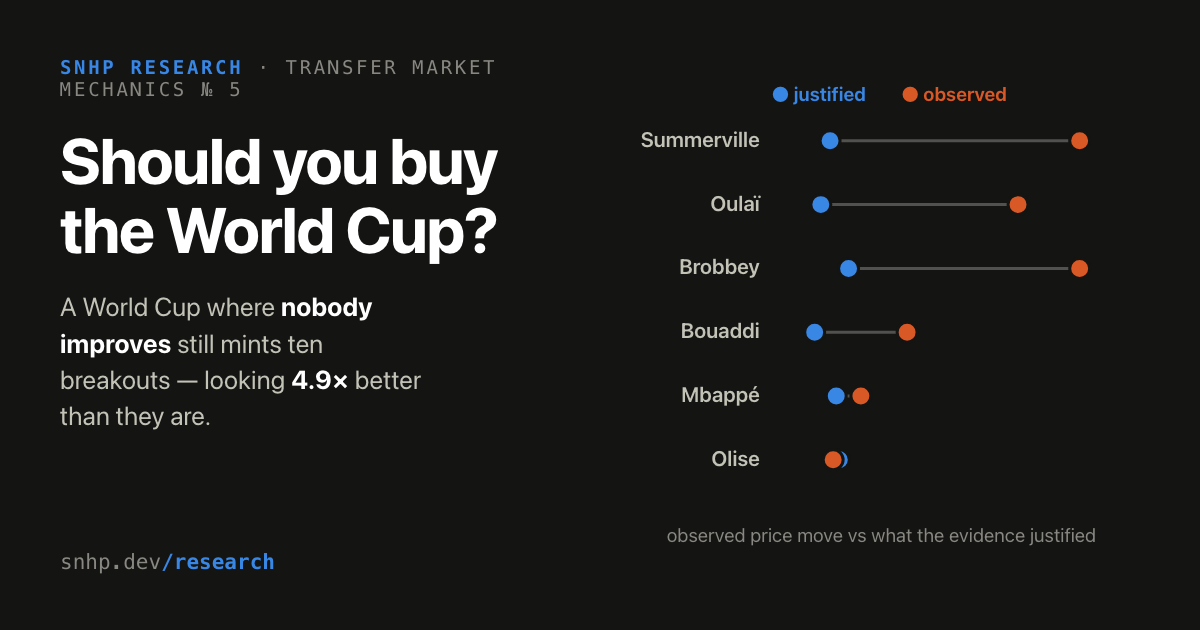
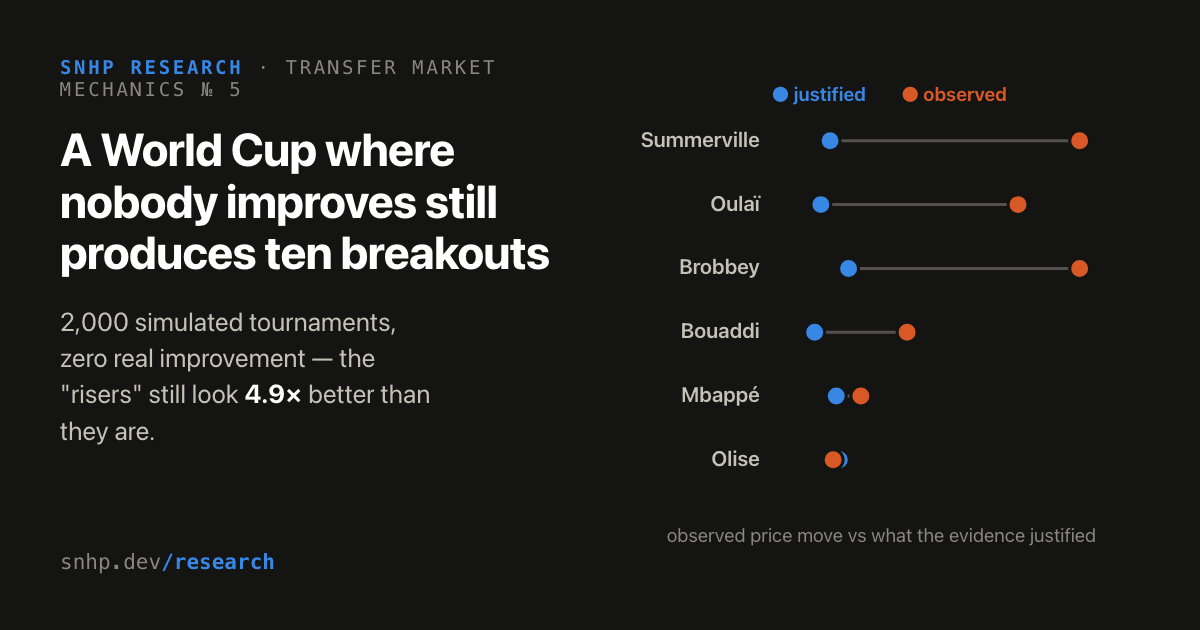
research: editor pass on the WC premium piece — make it a story
Applied a full features-editor edit: Elijah Just cold open (£2.5m in
May, "at least £10m" now) replaces the tracker price-dump; the null
tournament lands 200 words in; the James Rodriguez Maracana volley gets
its scene; the try-before-you-buy beat (Bayern/United both declined
after trial periods) stands alone; caveats halved; "eleven times"
count fixed; new headline ("A World Cup where nobody improves still
produces ten breakouts") and a kicker that closes the loop: a
predictable lie is the only kind you can price. Card + index updated
to match. All numbers unchanged (fact-checked and audited previously).

Changed region(s): [[0.0308, 0.2111, 0.4625, 0.6937]]

diff --git a/gametheory/server/static/research/wc-premium.html b/gametheory/server/static/research/wc-premium.html
@@ -3,20 +3,20 @@
 <head>
 <meta charset="utf-8">
 <meta name="viewport" content="width=device-width, initial-scale=1">
-<title>Should you buy the World Cup?</title>
-<meta name="description" content="A simulated World Cup where nobody improves still mints ten breakouts. Rational vs observed price moves for 16 tracked players, and history's receipts — from James Rodríguez to Amrabat.">
+<title>A World Cup where nobody improves still produces ten breakouts</title>
+<meta name="description" content="2,000 simulated tournaments with zero real improvement still mint a breakout class. Which of this summer's price moves are real, which are television — and why the clearest buy is a player whose price went down.">
 <link rel="canonical" href="https://snhp.dev/research/wc-premium">
 <meta property="og:type" content="article">
 <meta property="og:site_name" content="SNHP Research">
-<meta property="og:title" content="Should you buy the World Cup?">
-<meta property="og:description" content="A simulated World Cup where nobody improves still mints ten breakouts. Rational vs observed price moves for 16 tracked players, and history's receipts — from James Rodríguez to Amrabat.">
+<meta property="og:title" content="A World Cup where nobody improves still produces ten breakouts">
+<meta property="og:description" content="2,000 simulated tournaments with zero real improvement still mint a breakout class. Which of this summer's price moves are real, which are television — and why the clearest buy is a player whose price went down.">
 <meta property="og:url" content="https://snhp.dev/research/wc-premium">
 <meta property="og:image" content="https://snhp.dev/static/research/img/premium-card.png">
 <meta property="og:image:width" content="1200">
 <meta property="og:image:height" content="630">
 <meta name="twitter:card" content="summary_large_image">
-<meta name="twitter:title" content="Should you buy the World Cup?">
-<meta name="twitter:description" content="A simulated World Cup where nobody improves still mints ten breakouts. Rational vs observed price moves for 16 tracked players, and history's receipts — from James Rodríguez to Amrabat.">
+<meta name="twitter:title" content="A World Cup where nobody improves still produces ten breakouts">
+<meta name="twitter:description" content="2,000 simulated tournaments with zero real improvement still mint a breakout class. Which of this summer's price moves are real, which are television — and why the clearest buy is a player whose price went down.">
 <meta name="twitter:image" content="https://snhp.dev/static/research/img/premium-card.png">
 </head>
 <body>
@@ -126,9 +126,9 @@
 <div class="wrap">
 <header>
   <div class="eyebrow">Transfer market mechanics · No. 5</div>
-  <h1>Should you buy the World Cup?</h1>
-  <p class="standfirst">Value trackers say this tournament has minted hundreds of millions in new transfer value — £25m for five Olise assists, a quadrupled price for a Motherwell forward, £20m for 133 minutes of Summerville. The arithmetic of a 300-minute sample says most of that is noise. The interesting part is which moves aren't — because the tournament isn't lying uniformly, and telling the two apart is a solvable problem.</p>
-  <p class="byline">Santiago Munoz · July 2026 <span class="draft">Draft 1</span></p>
+  <h1>A World Cup where nobody improves still produces ten breakouts</h1>
+  <p class="standfirst">I simulated 2,000 tournaments in which no player got better. Every single one minted a breakout class anyway. Here's how to tell this summer's real risers from the manufactured ones — and why the clearest buy of the window is a player whose price went <em>down</em>.</p>
+  <p class="byline">Santiago Munoz · July 2026 <span class="draft">Draft 2 · edited</span></p>
 
   <div class="tiles">
     <div class="tile">
@@ -154,16 +154,17 @@
   </div>
 </header>
 
-<div class="eyebrow">§ 1 — The movers</div>
+<div class="eyebrow">§ 1 — The window is live</div>
 <div class="prose">
-<h2>The tournament is repricing players in real time</h2>
-<p>Goal's eToro-branded value tracker, Football Whispers' market movers, and club asking prices reported mid-tournament give an unusually public record of the World Cup premium forming. Olise £125m→£150m on five assists. Bouaddi £45m→£65m. Summerville: Transfermarkt said £25m in May; West Ham now reportedly wants £50m after 133 minutes and two goals. Freiburg raised Manzambi's price ~£9m mid-group-stage. Motherwell's Elijah Just: £2.5m to "at least £10m" on three goals. And the same trackers cut Julián Álvarez £15m for a bad month and marked down Elliot Anderson and Morgan Rogers for quiet ones. The question a buying club should ask isn't whether these numbers moved — it's how much they <em>should</em> have.</p>
+<h2>£2.5m in May. "At least £10m" now.</h2>
+<p>Elijah Just plays for Motherwell. In May the databases priced him at £2.5m — a good forward at a club whose entire wage bill wouldn't cover a Premier League bench. Then he scored three World Cup goals for New Zealand, two of them against Iran, and by the knockouts the reports said Motherwell want <em>at least £10m</em>. He is the same player. Nothing about him has changed except 270 minutes of television.</p>
+<p>He has company. Freiburg raised Johan Manzambi's asking price by roughly £9m <em>between group games</em>. West Ham's ask for Crysencio Summerville doubled on 133 minutes. For the first time, you can watch a World Cup premium form in real time — trackers repricing players goal by goal, clubs raising their asks between matches. The question a buying club should be asking isn't whether the prices moved. It's how much they should have.</p>
 </div>
 
 <div class="eyebrow">§ 2 — The null tournament</div>
 <div class="prose">
-<h2>A World Cup where nobody improves still produces ten breakouts</h2>
-<p>Here is the whole problem in one simulation. Take 700 players whose true ability is <em>fixed</em> — nobody improves, nobody declines. Give each 120–480 tournament minutes and let goals arrive with normal statistical randomness. Then do what the trackers do: rank everyone by how much they beat their baseline, and celebrate the top ten.</p>
+<h2>The experiment the summer never gives you</h2>
+<p>So run the one experiment the summer never gives you: a World Cup where nobody gets better. Take 700 players and freeze their ability — no breakouts, no declines, just 120–480 minutes of ordinary luck. Then do what the trackers do: rank everyone by how much they beat their baseline, and celebrate the top ten.</p>
 </div>
 
 <figure>
@@ -174,34 +175,35 @@
 </figure>
 
 <div class="prose">
-<p>This is selection plus sample size, the same mechanism that fills every "hot fund managers" list. The tracker doesn't lie about what happened on the pitch; it lies — structurally, innocently — about what it means.</p>
+<p>It's the trick that fills every hot-fund-managers list: pick your winners after the results are in, from a window short enough for luck to dominate, and the winners will always look like geniuses. The tracker doesn't lie about what happened on the pitch; it lies — structurally, innocently — about what it means.</p>
 </div>
 
 <div class="eyebrow">§ 3 — The rational update</div>
 <div class="prose">
 <h2>What 300 minutes is actually worth</h2>
-<p>None of which means the right update is zero. A World Cup is real information: better opponents, higher stakes, new tactical contexts. The question is weight. A player arrives with a prior — roughly a full club season, call it 2,800 minutes of evidence. The tournament adds 130–450. Basic Bayesian arithmetic says the new sample deserves about <strong>a tenth</strong> of the weight of what you already knew, before any allowance for the selection effect above. Run every tracked mover through that arithmetic — their observed move against the move their tournament actually justified:</p>
+<p>None of this means a World Cup tells you nothing. Better opponents, higher stakes, new roles — it's real evidence. The question is how much it weighs against everything you already knew. A buyer who watched a full club season holds 2,800 minutes of evidence; the tournament just added 300. Do the division nobody on a deadline-day call is doing, and the World Cup earns about <strong>a tenth</strong> of your opinion — before you even correct for the fact that the players you noticed were selected by their hot streaks. Here is every tracked mover against the move their tournament actually earned:</p>
 </div>
 
 <figure>
   <p class="fig-title">Most moves overshoot the evidence — but not all of them</p>
-  <p class="fig-sub">Observed value/ask change vs the model's rational update, % — 16 tracked players, risers and fallers</p>
+  <p class="fig-sub">Observed value/ask change vs the model's rational update, % — 16 tracked players, risers and fallers; hover for each player's numbers</p>
   <div class="chart-box" id="c2"></div>
   <div class="legend">
     <span class="key"><span class="sw" style="background:var(--s-1)"></span>rational update (shrinkage model)</span>
     <span class="key"><span class="sw" style="background:var(--s-2)"></span>observed move (tracker or reported ask)</span>
   </div>
-  <figcaption>Where the dots nearly touch, the market updated like a Bayesian: Olise (a £25m move on five assists is <em>justified</em> for a player with his prior), Manzambi, Yamal, Mbappé. Where the orange dot runs far ahead — Summerville, Oulaï, Brobbey, Just — the price is mostly tournament theater. The fallers get over-punished by the same arithmetic: Álvarez's −12% is three times the mark-down his 160 bad minutes justify. Hover for each player's numbers.</figcaption>
+  <figcaption>Where the dots nearly touch, the market updated like a Bayesian: Olise (a £25m move on five assists is <em>justified</em> for a player with his prior), Manzambi, Yamal, Mbappé. Where the orange dot runs far ahead — Summerville, Oulaï, Brobbey, Just — the price is mostly tournament theater. The fallers get over-punished by the same arithmetic: Álvarez's −12% is three times the mark-down his 160 bad minutes justify.</figcaption>
 </figure>
 
 <div class="prose">
-<p>The pattern in that chart is the piece's finding: <strong>hype concentrates where the prior is thin.</strong> Big players with long track records get priced almost rationally — their World Cup barely moves a five-season prior. The 5–10× overshoots belong to players from smaller leagues, relegated clubs and short careers, where the tournament is the only high-visibility evidence anyone has — and where the buying clubs know the least. The World Cup premium is an information tax on scouting departments that outsourced their priors to television.</p>
+<p>Look at where the gaps open. <strong>Hype concentrates where the prior is thin.</strong> Big players with long track records get priced almost rationally — their World Cup barely moves a five-season prior. The 5–10× overshoots belong to players from smaller leagues, relegated clubs and short careers, where the tournament is the only high-visibility evidence anyone has — and where the buying clubs know the least. The World Cup premium is an information tax on scouting departments that outsourced their priors to television.</p>
 </div>
 
 <div class="eyebrow">§ 4 — The receipts</div>
 <div class="prose">
-<h2>History has run this experiment eleven times</h2>
-<p>The canonical case is exact: James Rodríguez won the 2014 Golden Boot on six goals, Real Madrid paid Monaco ~€75m within three weeks, and six years later he left on a free — the fee recovered in full: zero. The pattern around him is remarkably consistent:</p>
+<h2>History keeps running this experiment</h2>
+<p>June 28, 2014, the Maracanã. James Rodríguez chests the ball down 25 yards from Uruguay's goal, swivels, and volleys it in off the underside of the crossbar. It wins the Puskás Award; his six goals win the Golden Boot; within three weeks Real Madrid have paid Monaco ~€75m. Six years later he leaves on a free. Total fee recovered: zero.</p>
+<p>The pattern around him is remarkably consistent:</p>
 </div>
 <div class="tablewrap">
 <table>
@@ -218,25 +220,30 @@
 </table>
 </div>
 <div class="prose">
-<p>And the counterexamples prove the rule rather than breaking it. Kroos (€25m, weeks after lifting the trophy) was cheap <em>because of contract leverage</em>, not expensive because of the tournament. Suárez was bought at a bite-suppressed price. Gakpo was signed mid-tournament in 2022 at a fee Liverpool had scouted him to <em>before</em> Qatar. The buys that worked were purchases of a body of work where the World Cup was incidental — or an active discount. The buys that failed were purchases of the tournament itself. Buyers who got a trial period consistently declined the World Cup price: Bayern on James, United on Amrabat. When someone gets to see the goods after the tournament glow fades, they don't pay the glow.</p>
+<p>The counterexamples are the tell. Kroos (€25m, weeks after lifting the trophy) was cheap <em>because of contract leverage</em>, not expensive because of the tournament. Suárez was bought at a bite-suppressed price. Gakpo was signed mid-tournament in 2022 at a fee Liverpool had scouted him to <em>before</em> Qatar. The buys that worked were purchases of a body of work where the World Cup was incidental — or an active discount. The buys that failed were purchases of the tournament itself.</p>
+<p>And only two buyers in this record ever got to watch the goods after the glow faded — Bayern with James on loan, United with Amrabat. Both handed them back. When someone gets a trial period on a World Cup star, they don't pay the World Cup price.</p>
 </div>
 
 <div class="eyebrow">§ 5 — What this doesn't say</div>
 <div class="prose">
 <h2>Does the model tell the whole truth?</h2>
-<p>The performance multiples behind the rational updates are modeled from reported stats and minutes, not from event data — the sensitivity sweep (hype median 1.1–3.8× across calibrations) brackets that honestly, and the direction survives every calibration. The tracker numbers themselves are a mix of editorial valuations (the eToro tracker is sponsored content), database values, and club asking prices — asks especially are negotiating positions, not beliefs; §3 treats them identically, which flatters nobody. And a World Cup can carry real, non-statistical information the shrinkage model can't see: a player proving a new position, a temperament revealed on the biggest stage, availability signals. Scouts are right that tournaments matter. The model only insists they matter about a tenth as much as the market prices them — and that the tenth is worth paying for.</p>
+<p>The rational updates are modeled from reported stats and minutes, not event data — sweep every calibration and the hype median moves between 1.1× and 3.8×; the size is uncertain, the direction never flips. The tracked numbers are a mix of editorial valuations, database values, and club asking prices — and an ask is a negotiating position, not a belief; the model treats them identically, which flatters nobody. A World Cup can also carry real information the arithmetic can't see: a new position mastered, a temperament revealed on the biggest stage. Scouts are right that tournaments matter — the model only insists they matter about a tenth as much as the market prices them, and that the tenth is worth paying for.</p>
 </div>
 
 <div class="eyebrow">§ 6 — Predictions</div>
 <div class="prose">
 <h2>On the record, for July 2027</h2>
+<p>Tijuana, Cruz Azul and Leipzig are selling July. Somebody is buying it.</p>
 </div>
 <ul class="watchlist">
   <li><strong>The high-hype class underperforms its fees.</strong> If Summerville moves near £50m, Oulaï near €45m, or Brobbey near £50m, this model expects them — as a group — to return materially less value than matched signings bought on club form. Checkable in twelve months.</li>
   <li><strong>The rational movers hold up.</strong> Olise, Manzambi and the other near-1× updates should perform to their new prices. If the <em>whole</em> class fails uniformly, the shrinkage model is too generous; if the high-hype names fail selectively, it's calibrated.</li>
   <li><strong>The fallers outperform.</strong> Álvarez at a £15m markdown is this window's clearest buy signal by the same arithmetic that flags the overpriced. Over-punished bad months revert.</li>
-  <li><strong>Sellers keep winning the window.</strong> Every club in this series selling into the spike — Tijuana, Cruz Azul, Leipzig holding for more — is playing the correct side of the premium. The clubs to feel sorry for in July 2027 will be the ones that bought it.</li>
+  <li><strong>Sellers keep winning the window.</strong> Every club in this series selling into the spike — Tijuana, Cruz Azul, Leipzig holding for more — is playing the correct side of the premium.</li>
 </ul>
+<div class="prose">
+<p><strong>The World Cup doesn't lie uniformly. It lies predictably — and a predictable lie is the only kind you can price.</strong></p>
+</div>
 
 <div class="eyebrow">Sources &amp; method</div>
 <div class="prose">

diff --git a/gametheory/server/static/research/index.html b/gametheory/server/static/research/index.html
@@ -65,8 +65,8 @@
 
   <a class="piece" href="/research/wc-premium">
     <div class="no">№ 5 · July 2026</div>
-    <h2>Should you buy the World Cup?</h2>
-    <p>A simulated tournament where nobody improves still mints ten breakouts, looking 4.9× better than they are. Which of this summer's price moves are real — and which are television.</p>
+    <h2>A World Cup where nobody improves still produces ten breakouts</h2>
+    <p>2,000 simulated tournaments, zero real improvement — the "risers" still look 4.9× better than they are. Which of this summer's price moves are real, and which are television.</p>
   </a>
 
   <a class="piece" href="/research/diomande-ladder">